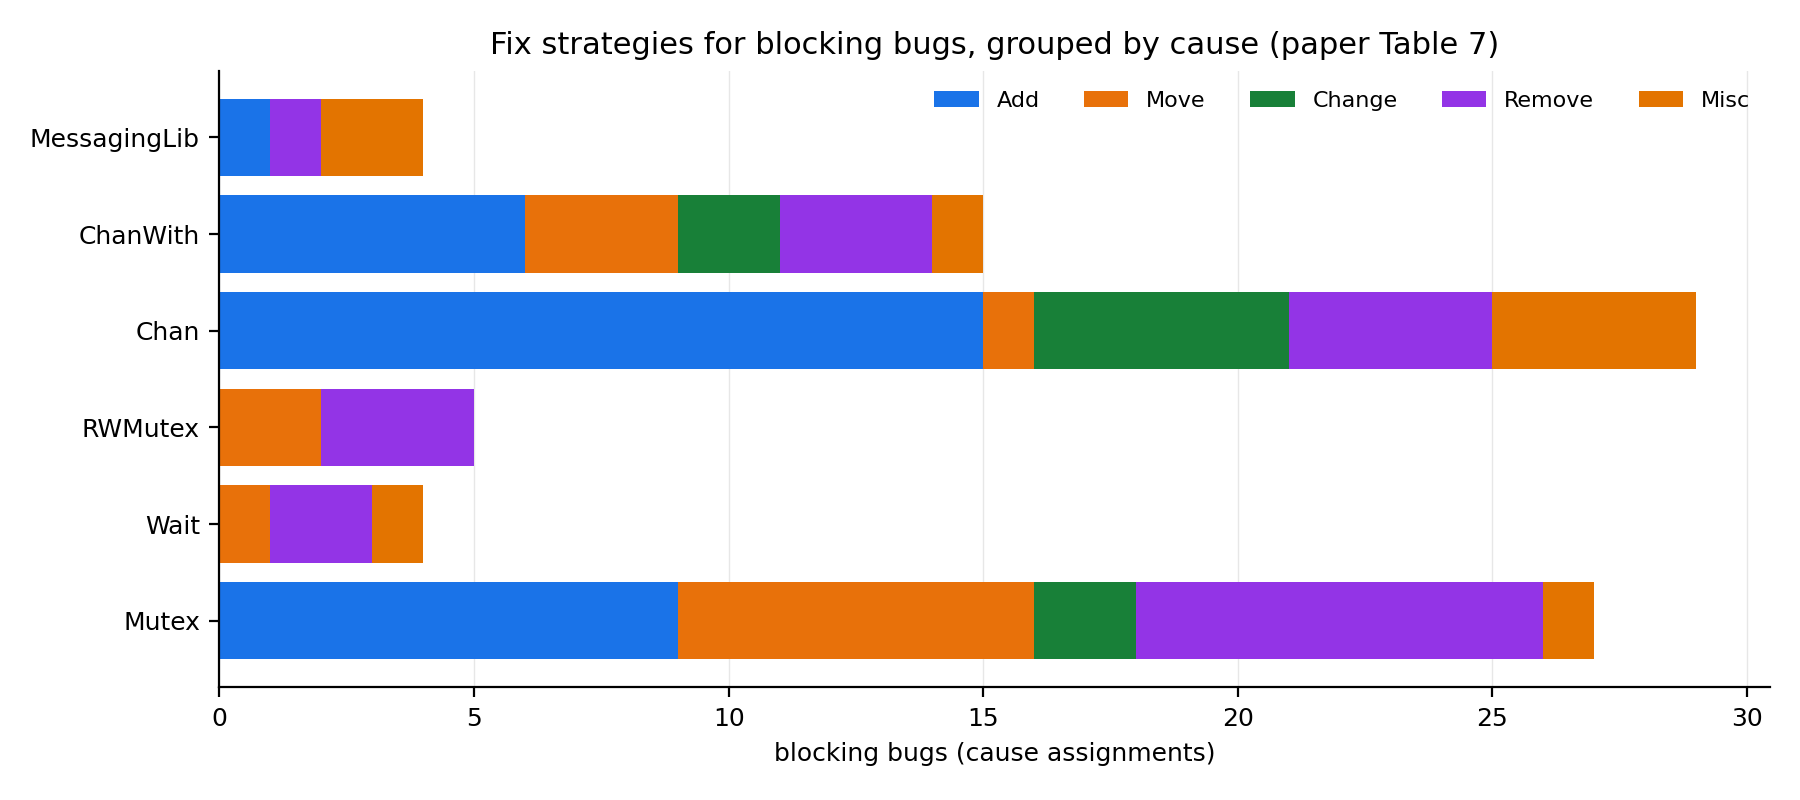
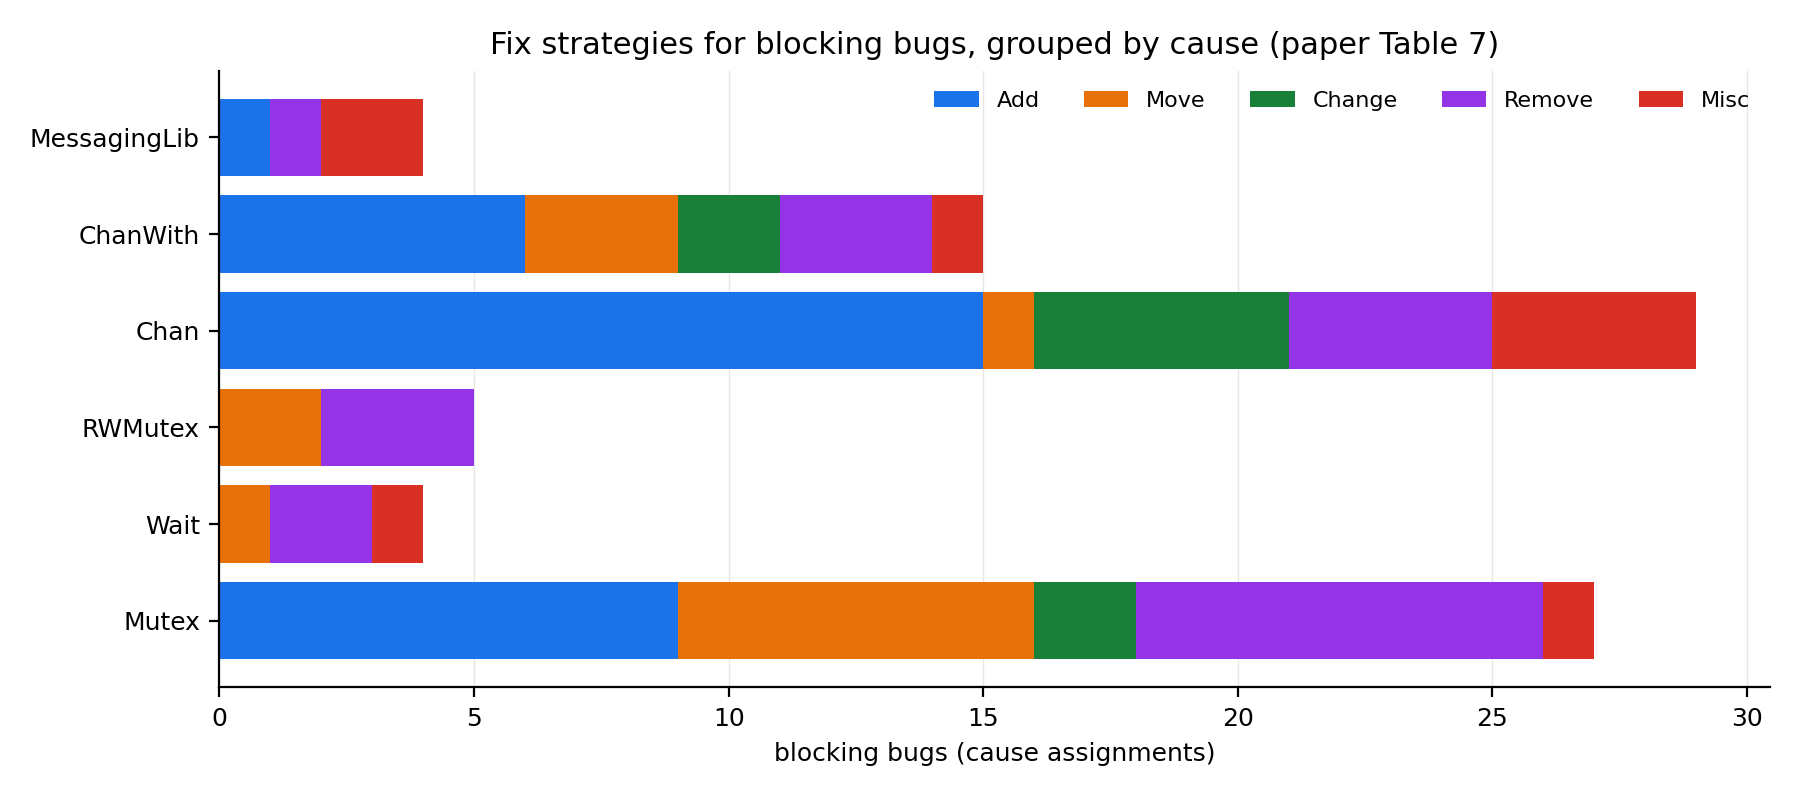
report: make paper-vs-ours comparison legible in figures (1240015875 郭子嘉)

diff --git a/scripts/make_figures.py b/scripts/make_figures.py
@@ -37,10 +37,12 @@ PAPER_T6 = {
     "BoltDB": (2, 0, 0, 0, 1, 0),
 }
 
-GREY = "#9aa0a6"
-BLUE = "#1a73e8"
+GREY = "#9aa0a6"      # paper
+BLUE = "#1a73e8"      # ours
 ORANGE = "#e8710a"
 GREEN = "#188038"
+PURPLE = "#9334e6"
+RED = "#d93025"
 
 
 def read_table(path):
@@ -87,58 +89,76 @@ def fig_taxonomy(csv_path, out_path):
 
 
 def fig_blocking_causes(csv_path, out_path):
+    """Two panels: totals per application, and totals per cause category.
+
+    Bars for the paper and for ours sit side by side so that the three
+    differing cause cells are directly visible.
+    """
     header, rows = read_table(csv_path)
     apps = [r[0] for r in rows]
     ours = {r[0]: [int(x) for x in r[1:7]] for r in rows}
     causes = ["Mutex", "RWMutex", "Wait", "Chan", "Chan w/", "Messaging Lib"]
 
-    fig, ax = plt.subplots(figsize=(9.5, 4.2))
+    fig, (axl, axr) = plt.subplots(1, 2, figsize=(12.0, 4.3))
+
+    # left: total cause assignments per application
     x = range(len(apps))
-    width = 0.13
-    for i, cause in enumerate(causes):
-        paper_vals = [PAPER_T6[a][i] for a in apps]
-        our_vals = [ours[a][i] for a in apps]
-        offset = (i - 2.5) * width
-        ax.bar([p + offset for p in x], paper_vals, width,
-               color=GREY, alpha=0.85,
-               label=cause if False else None)
-        ax.bar([p + offset for p in x], our_vals, width,
-               color=BLUE, alpha=0.9,
-               label=cause)
-    ax.set_xticks(list(x))
-    ax.set_xticklabels(apps, fontsize=9)
-    ax.set_ylabel("cause assignments", fontsize=9)
-    ax.set_title("Causes of blocking bugs per application "
-                 "(blue = ours, grey = paper)", fontsize=11)
-    ax.legend(fontsize=8, frameon=False, ncol=3)
-    ax.grid(axis="y", alpha=0.3, linewidth=0.5)
-    ax.set_axisbelow(True)
-    for spine in ("top", "right"):
-        ax.spines[spine].set_visible(False)
-    fig.tight_layout()
+    width = 0.36
+    paper_tot = [sum(PAPER_T6[a]) for a in apps]
+    our_tot = [sum(ours[a]) for a in apps]
+    axl.bar([p - width / 2 for p in x], paper_tot, width,
+            label="Paper", color=GREY)
+    axl.bar([p + width / 2 for p in x], our_tot, width,
+            label="Ours", color=BLUE)
+    axl.set_xticks(list(x))
+    axl.set_xticklabels(apps, fontsize=8, rotation=30, ha="right")
+    axl.set_ylabel("cause assignments", fontsize=9)
+    axl.set_title("Per application", fontsize=10)
+    axl.legend(fontsize=8, frameon=False)
+    axl.grid(axis="y", alpha=0.3, linewidth=0.5)
+    axl.set_axisbelow(True)
+
+    # right: totals per cause category
+    paper_c = [sum(PAPER_T6[a][i] for a in apps) for i in range(6)]
+    our_c = [sum(ours[a][i] for a in apps) for i in range(6)]
+    y = range(len(causes))
+    axr.barh([p - width / 2 for p in y], paper_c, height=width,
+             label="Paper", color=GREY)
+    axr.barh([p + width / 2 for p in y], our_c, height=width,
+             label="Ours", color=BLUE)
+    axr.set_yticks(list(y))
+    axr.set_yticklabels(causes, fontsize=9)
+    axr.invert_yaxis()
+    axr.set_xlabel("cause assignments", fontsize=9)
+    axr.set_title("Per cause category", fontsize=10)
+    axr.legend(fontsize=8, frameon=False)
+    axr.grid(axis="x", alpha=0.3, linewidth=0.5)
+    axr.set_axisbelow(True)
+
+    for ax in (axl, axr):
+        for spine in ("top", "right"):
+            ax.spines[spine].set_visible(False)
+        ax.tick_params(labelsize=8)
+
+    fig.suptitle("Causes of blocking bugs (paper Table 6 vs. ours)", fontsize=11)
+    fig.tight_layout(rect=(0, 0, 1, 0.94))
     fig.savefig(out_path, dpi=200)
     plt.close(fig)
 
 
 def fig_nontraditional(out_path, blocking_nt=54, nonblocking_nt=40,
                        total=169, blocking=83, nonblocking=86):
+    """Same colour means the same category in both panels."""
     fig, axes = plt.subplots(1, 2, figsize=(9.0, 3.8))
 
-    ax = axes[0]
-    vals = [blocking_nt, blocking - blocking_nt]
-    ax.pie(vals, labels=["non-traditional", "traditional"],
-           colors=[BLUE, GREY], autopct="%1.1f%%", startangle=90,
-           textprops={"fontsize": 9})
-    ax.set_title("Blocking: %d of %d non-traditional" % (blocking_nt, blocking),
-                 fontsize=10)
-
-    ax = axes[1]
-    vals = [nonblocking_nt, nonblocking - nonblocking_nt]
-    ax.pie(vals, labels=["non-traditional", "traditional"],
-           colors=[ORANGE, GREY], autopct="%1.1f%%", startangle=90,
-           textprops={"fontsize": 9})
-    ax.set_title("Non-blocking: %d of %d non-traditional"
-                 % (nonblocking_nt, nonblocking), fontsize=10)
+    for ax, nt, tot, title in (
+            (axes[0], blocking_nt, blocking, "Blocking"),
+            (axes[1], nonblocking_nt, nonblocking, "Non-blocking")):
+        ax.pie([nt, tot - nt], labels=["non-traditional", "traditional"],
+               colors=[BLUE, GREY], autopct="%1.1f%%", startangle=90,
+               textprops={"fontsize": 9})
+        ax.set_title("%s: %d of %d non-traditional" % (title, nt, tot),
+                     fontsize=10)
 
     fig.suptitle("Non-traditional label share: %d of %d records (%.1f%%)"
                  % (blocking_nt + nonblocking_nt, total,
@@ -156,7 +176,7 @@ def fig_fix_strategies(csv_path, out_path):
 
     fig, ax = plt.subplots(figsize=(9.0, 4.0))
     bottom = [0.0] * len(causes)
-    palette = [BLUE, ORANGE, GREEN, "#9334e6", "#e37400"]
+    palette = [BLUE, ORANGE, GREEN, PURPLE, RED]
     for i, strat in enumerate(strategies):
         vals = [float(r[1 + i]) for r in rows]
         ax.barh(causes, vals, left=bottom, label=strat,
@@ -192,13 +212,15 @@ def main():
                               os.path.join(args.output, "fig_taxonomy.png"))))
     made.append(("fig_blocking_causes.png",
                  fig_blocking_causes(os.path.join(tables, "table6.csv"),
-                                     os.path.join(args.output, "fig_blocking_causes.png"))))
+                                     os.path.join(args.output,
+                                                  "fig_blocking_causes.png"))))
     made.append(("fig_nontraditional.png",
                  fig_nontraditional(os.path.join(args.output,
                                                 "fig_nontraditional.png"))))
     made.append(("fig_fix_strategies.png",
                  fig_fix_strategies(os.path.join(tables, "table7.csv"),
-                                    os.path.join(args.output, "fig_fix_strategies.png"))))
+                                    os.path.join(args.output,
+                                                 "fig_fix_strategies.png"))))
     for name, _ in made:
         print("wrote", os.path.join(args.output, name))
 

diff --git a/report/main.tex b/report/main.tex
@@ -322,8 +322,8 @@ that the two causes in \S\ref{sec:discrepancies} predict, which is a
 stronger statement than agreement in aggregate.
 
 Table~\ref{tab:t6} gives the causes of blocking bugs, our recomputation of
-paper Table~6, and Figure~\ref{fig:causes} shows the same data per
-application.
+paper Table~6, and Figure~\ref{fig:causes} compares the two, both per
+application and per cause category.
 
 \begin{table}[h]
 \centering
@@ -352,9 +352,10 @@ Total       & \textbf{27} & 5 & \textbf{4} & 29 & \textbf{15} & 4 & \textbf{85} 
 \begin{figure}[h]
 \centering
 \includegraphics[width=0.92\textwidth]{figures/fig_blocking_causes.png}
-\caption{Causes of blocking bugs per application. Ours (blue) and the
-published Table~6 (grey) differ in the Mutex and Chan-with-library columns
-of BoltDB and in the Wait column of Kubernetes.}
+\caption{Causes of blocking bugs, paper against ours. The left panel
+groups by application, the right by cause category. The three
+differing cells are visible directly in the right panel: Mutex 28 against
+27, Wait 3 against 4, and Chan-with-library 16 against 15.}
 \label{fig:causes}
 \end{figure}
 

diff --git a/docs/weekly-log.md b/docs/weekly-log.md
@@ -20,6 +20,7 @@ this table together, so every line here must correspond to a real commit.
 | 2 | 2026-11-14 | 郭子嘉 (D) | `report: fill setup, results, discrepancy and extension sections` | Reproduction Setup, Results, Analysis of Discrepancies, Extension |
 | 2 | 2026-11-14 | 郭子嘉 (D) | `report: reduce claims to three with verdicts and add figures` | Claims, Results, Analysis of Discrepancies |
 | 2 | 2026-11-14 | 郭子嘉 (D) | `meta: document starting code, workloads and build commands` | Reproduction Setup |
+| 2 | 2026-11-14 | 郭子嘉 (D) | `report: make paper-vs-ours comparison legible in figures` | Results |
 
 ## Scope note on the week-1 data pipeline
 
